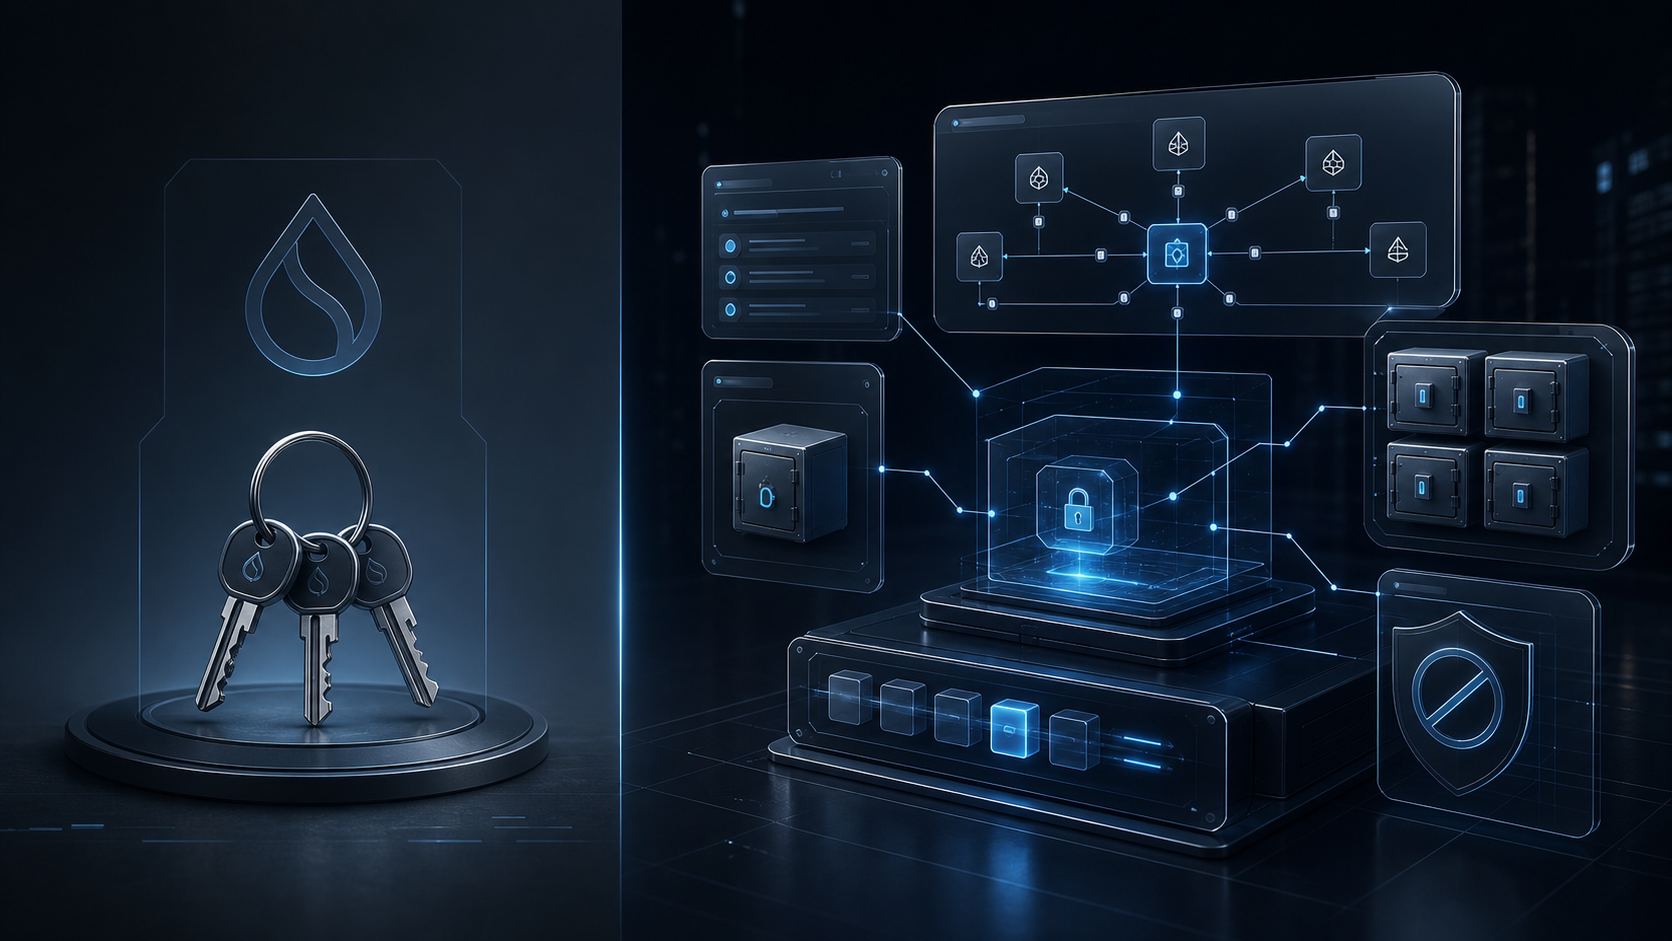
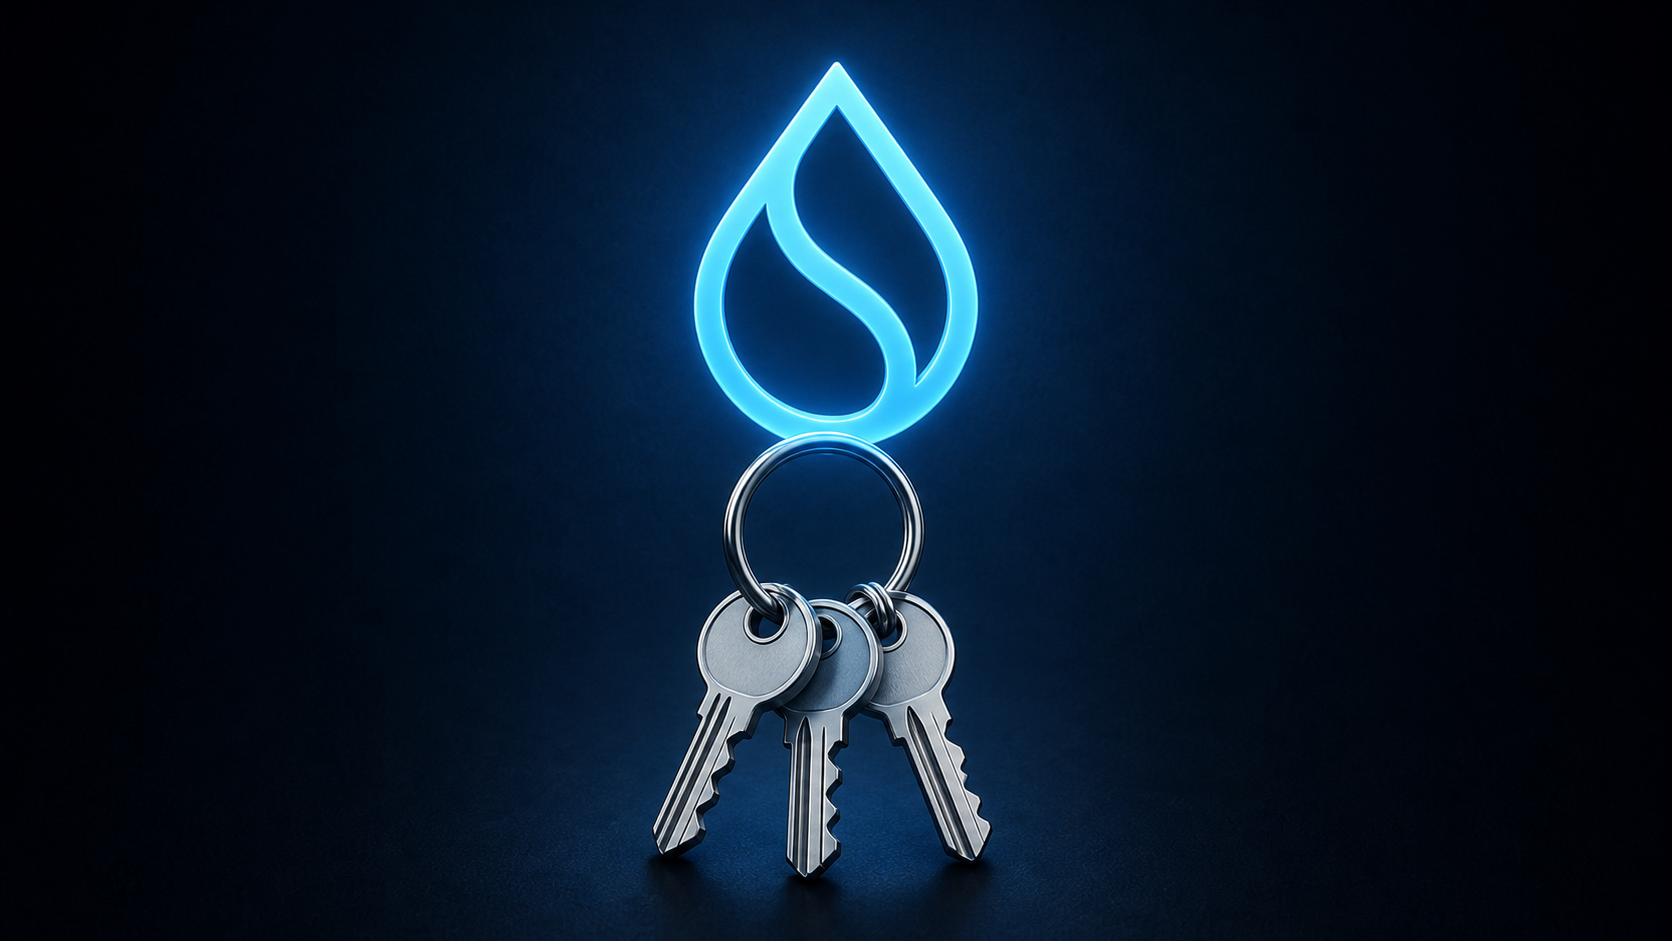
Refine raises empty state and blog image

diff --git a/src/routes/raise/Raises.tsx b/src/routes/raise/Raises.tsx
@@ -87,7 +87,7 @@ export function Raises() {
                     <div className="flex flex-col gap-2">
                         <h3 className="text-xl font-semibold text-text-primary">No Raises Available</h3>
                         <p className="text-text-muted text-center max-w-md">
-                            There are currently no active raises. Check back soon for new investment opportunities.
+                            There are currently no active raises. Check back soon.
                         </p>
                     </div>
                 </div>